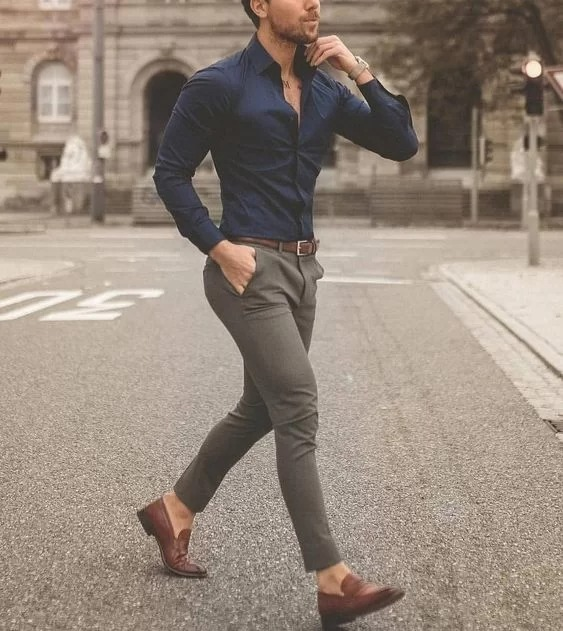
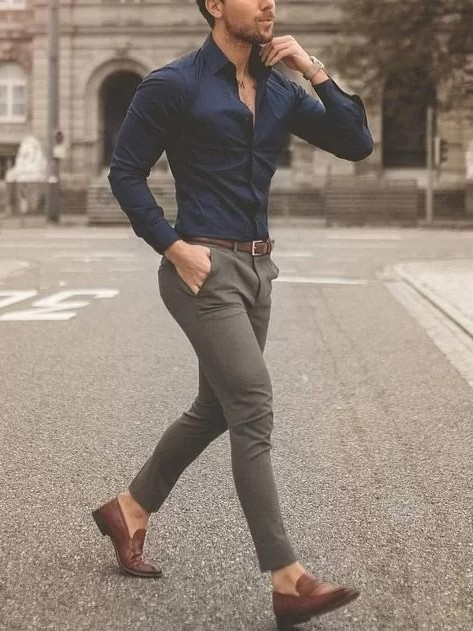
fix: separar fotos do texto no dress code e recortar cabecas
As fotos de referencia estavam empilhadas junto do texto no mesmo card, com
alturas diferentes (proporcoes diferentes), o que ficava desalinhado.

Agora Elas/Eles usam um quadro uniforme 3:4 com a orientacao em texto como
legenda abaixo -- foto e texto separados, layout harmonico.

As fotos foram recortadas para 3:4: a das convidadas cortando o topo para
remover as cabecas (foca no traje); a dos convidados cortando as laterais.

diff --git a/src/app/dress-code/page.tsx b/src/app/dress-code/page.tsx
@@ -2,45 +2,12 @@ import { wedding } from "@/config/wedding";
 
 export const metadata = { title: "Dress Code" };
 
-type Foto = { src: string; alt: string };
-
-function CartaoLook({
-  titulo,
-  texto,
-  fotos,
-}: {
-  titulo: string;
-  texto: string;
-  fotos: readonly Foto[];
-}) {
-  return (
-    <div className="overflow-hidden rounded-2xl border border-sand bg-white">
-      {fotos.length > 0 && (
-        // Sem aspect-ratio fixo de proposito: as fotos de referencia vem com
-        // proporcoes diferentes e um recorte forcado cortava os rostos.
-        <div className="grid grid-cols-1 gap-px bg-sand">
-          {fotos.map((foto) => (
-            // eslint-disable-next-line @next/next/no-img-element
-            <img
-              key={foto.src}
-              src={foto.src}
-              alt={foto.alt}
-              className="h-auto w-full bg-sand"
-              loading="lazy"
-            />
-          ))}
-        </div>
-      )}
-      <div className="p-8">
-        <p className="text-xs uppercase tracking-widest text-stone">{titulo}</p>
-        <p className="mt-3 text-stone">{texto}</p>
-      </div>
-    </div>
-  );
-}
-
 export default function DressCodePage() {
   const { dressCode } = wedding;
+  const looks = [
+    { label: "Elas", texto: dressCode.women, foto: dressCode.womenPhotos[0] },
+    { label: "Eles", texto: dressCode.men, foto: dressCode.menPhotos[0] },
+  ];
 
   return (
     <div className="container-page py-16">
@@ -50,21 +17,32 @@ export default function DressCodePage() {
         <p className="mx-auto mt-4 max-w-2xl text-stone">{dressCode.intro}</p>
       </header>
 
-      <div className="mx-auto grid max-w-3xl gap-6 md:grid-cols-2">
-        <CartaoLook
-          titulo="Elas"
-          texto={dressCode.women}
-          fotos={dressCode.womenPhotos}
-        />
-        <CartaoLook
-          titulo="Eles"
-          texto={dressCode.men}
-          fotos={dressCode.menPhotos}
-        />
+      {/* Guia por publico: a orientacao em texto e a foto de referencia ficam
+          em blocos separados, com a foto num quadro uniforme (3:4). */}
+      <div className="mx-auto grid max-w-3xl gap-8 sm:grid-cols-2">
+        {looks.map((look) => (
+          <figure key={look.label} className="text-center">
+            {look.foto && (
+              // eslint-disable-next-line @next/next/no-img-element
+              <img
+                src={look.foto.src}
+                alt={look.foto.alt}
+                className="aspect-[3/4] w-full rounded-2xl border border-sand object-cover"
+                loading="lazy"
+              />
+            )}
+            <figcaption className="mt-4">
+              <p className="text-xs uppercase tracking-widest text-stone">
+                {look.label}
+              </p>
+              <p className="mt-1 text-stone">{look.texto}</p>
+            </figcaption>
+          </figure>
+        ))}
       </div>
 
       {/* Cores a evitar */}
-      <div className="mx-auto mt-6 max-w-3xl rounded-2xl border border-sand bg-white p-8">
+      <div className="mx-auto mt-16 max-w-3xl rounded-2xl border border-sand bg-white p-8">
         <p className="text-xs uppercase tracking-widest text-stone">
           Cores a evitar
         </p>

diff --git a/src/config/wedding.ts b/src/config/wedding.ts
@@ -73,13 +73,13 @@ export const wedding = {
     womenPhotos: [
       {
         src: "/images/dress-code/elas-vestidos-midi.jpeg",
-        alt: "Duas convidadas em vestidos midi, um verde e um laranja",
+        alt: "Dois vestidos midi de referência, um verde e um laranja",
       },
     ],
     menPhotos: [
       {
         src: "/images/dress-code/eles-calca-camisa.jpeg",
-        alt: "Convidado de calça social cinza, camisa azul-marinho e sapato social",
+        alt: "Calça social cinza com camisa azul-marinho e sapato social",
       },
     ],
 
@@ -120,12 +120,12 @@ export const wedding = {
       {
         icon: "envelope",
         title: "Convidado não convida",
-        text: "O convite vale para as pessoas nomeadas nele. Se quiser levar alguém, fale com a gente antes.",
+        text: "O convite vale para as pessoas nomeadas nele.",
       },
       {
         icon: "clock",
         title: "Não se atrase",
-        text: "A cerimônia começa às 15h. Chegue com antecedência para não perder a entrada.",
+        text: "A cerimônia começa às 16h. Chegue com antecedência para não perder a entrada.",
       },
       {
         icon: "church",